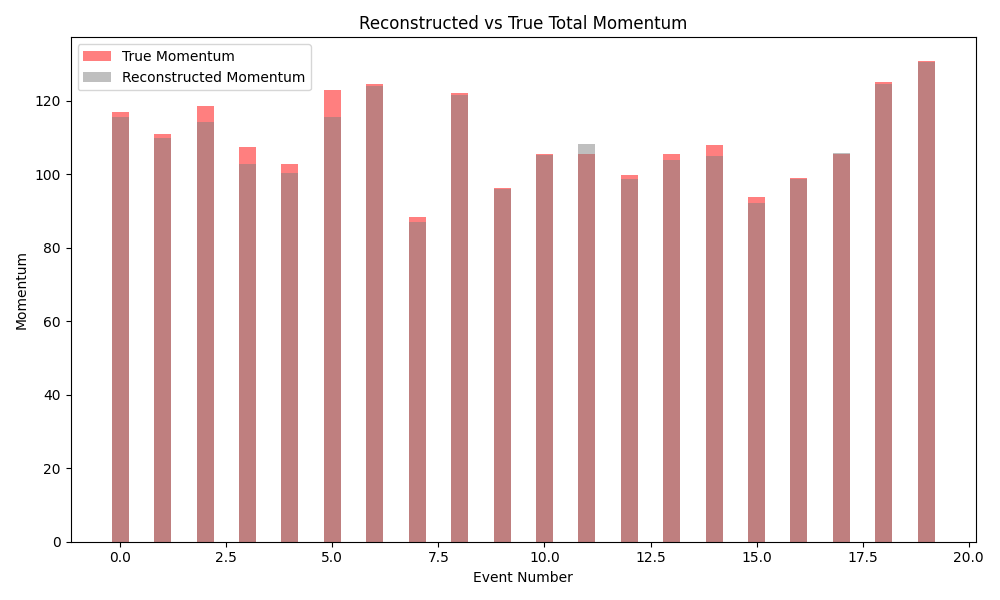
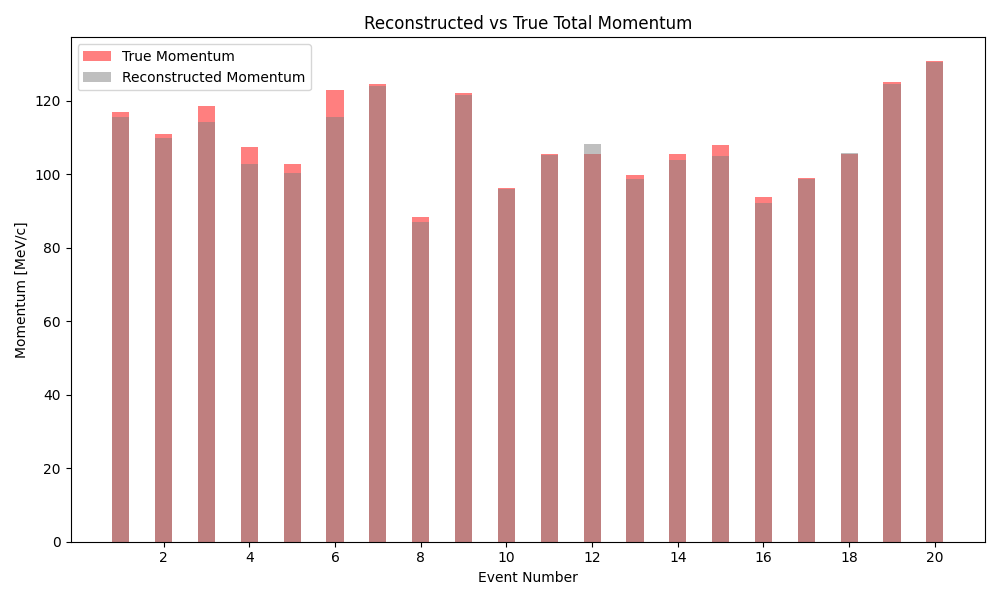
Making figures for presentation

diff --git a/J Codes/3 - Total Momentum.py b/J Codes/3 - Total Momentum.py
@@ -65,9 +65,14 @@ ax.bar(x, event_total_truep_array[:20], width, label='True Momentum', alpha=0.5,
 ax.bar(x, event_totalp_array[:20], width, label='Reconstructed Momentum', alpha=0.5, color='grey') #edgecolor='black'
 
 # Add labels and title
-ax.set_ylabel('Momentum')
+ax.set_ylabel('Momentum [MeV/c]')
 ax.set_xlabel('Event Number')
 ax.set_title('Reconstructed vs True Total Momentum')
+
+# Setting number of x-ticks and corresponding labels
+tick_positions = [1, 3, 5, 7, 9, 11, 13, 15, 17, 19]  # (array starts from 0)
+tick_labels = [2, 4, 6, 8, 10, 12, 14, 16, 18, 20]    
+plt.xticks(tick_positions, tick_labels)
 
 # Add a legend
 ax.legend()

diff --git a/J Codes/2 - Plotting Event Frequency vs mmass.py b/J Codes/2 - Plotting Event Frequency vs mmass.py
@@ -55,8 +55,8 @@ print(vertex_mass_array)
 #it comes from, that way can find frame interesting events occurred in
 
 
-plt.hist(vertex_mass_array, bins=20, edgecolor = 'black')
-plt.xlabel('Mass Value')
+plt.hist(vertex_mass_array, bins=100, edgecolor = 'black')
+plt.xlabel(r'Mass Value [MeV/c$^2$]')
 plt.ylabel('Frequency')
 plt.title('Mass Frequency')
 

diff --git a/J Codes/1 - Plotting Basics + Events per Frame.py b/J Codes/1 - Plotting Basics + Events per Frame.py
@@ -59,8 +59,8 @@ print(number_array)
 
 
 plt.bar(Frames, number_array)
-plt.ylim(0, 10)
-plt.xlim(0, 19)
+plt.ylim(0, 28)
+plt.xlim(0, 9920)
 plt.xlabel('Frame')
 plt.ylabel('Number of Vertices')
 plt.title('Number of Events per Frame')
